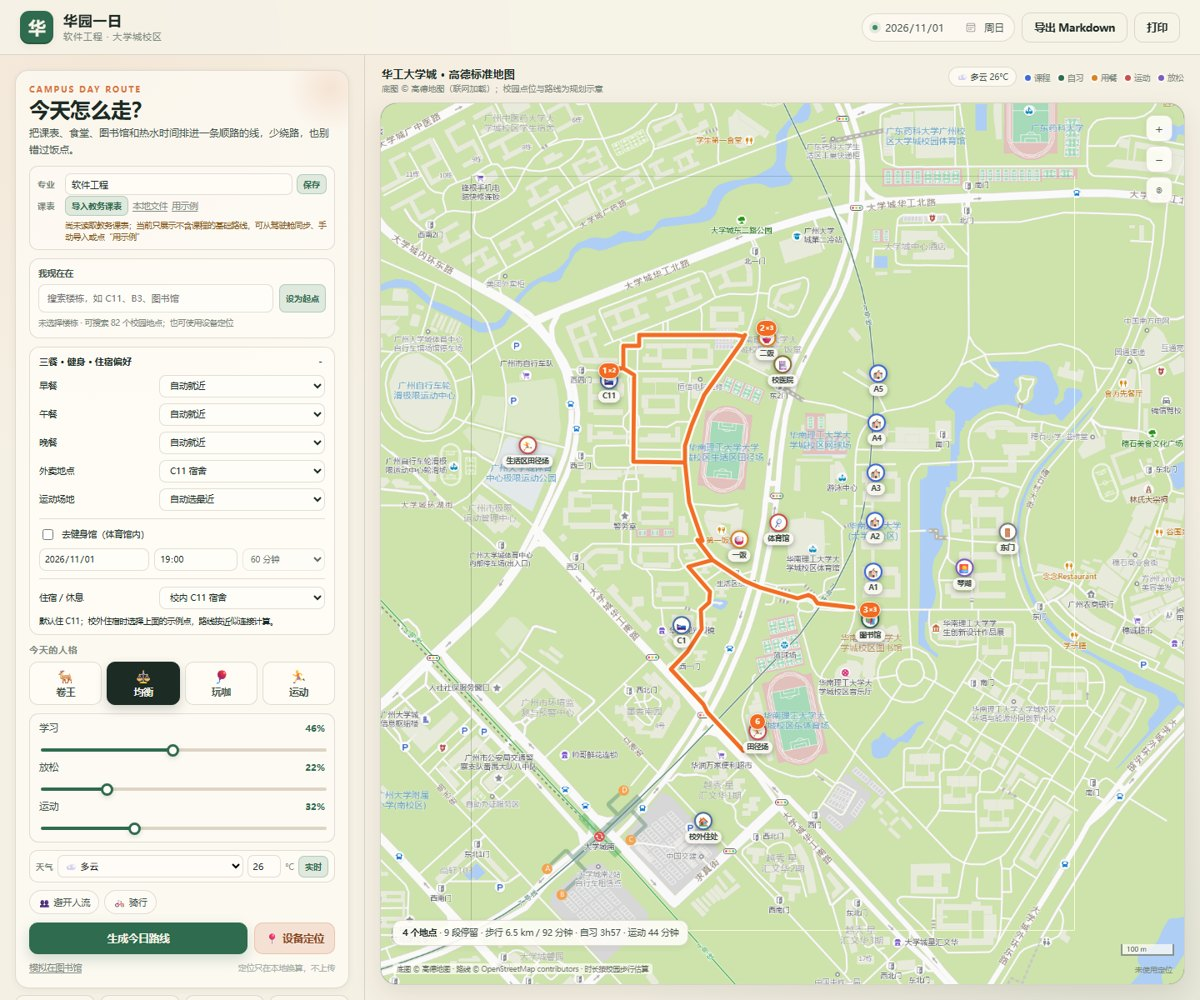
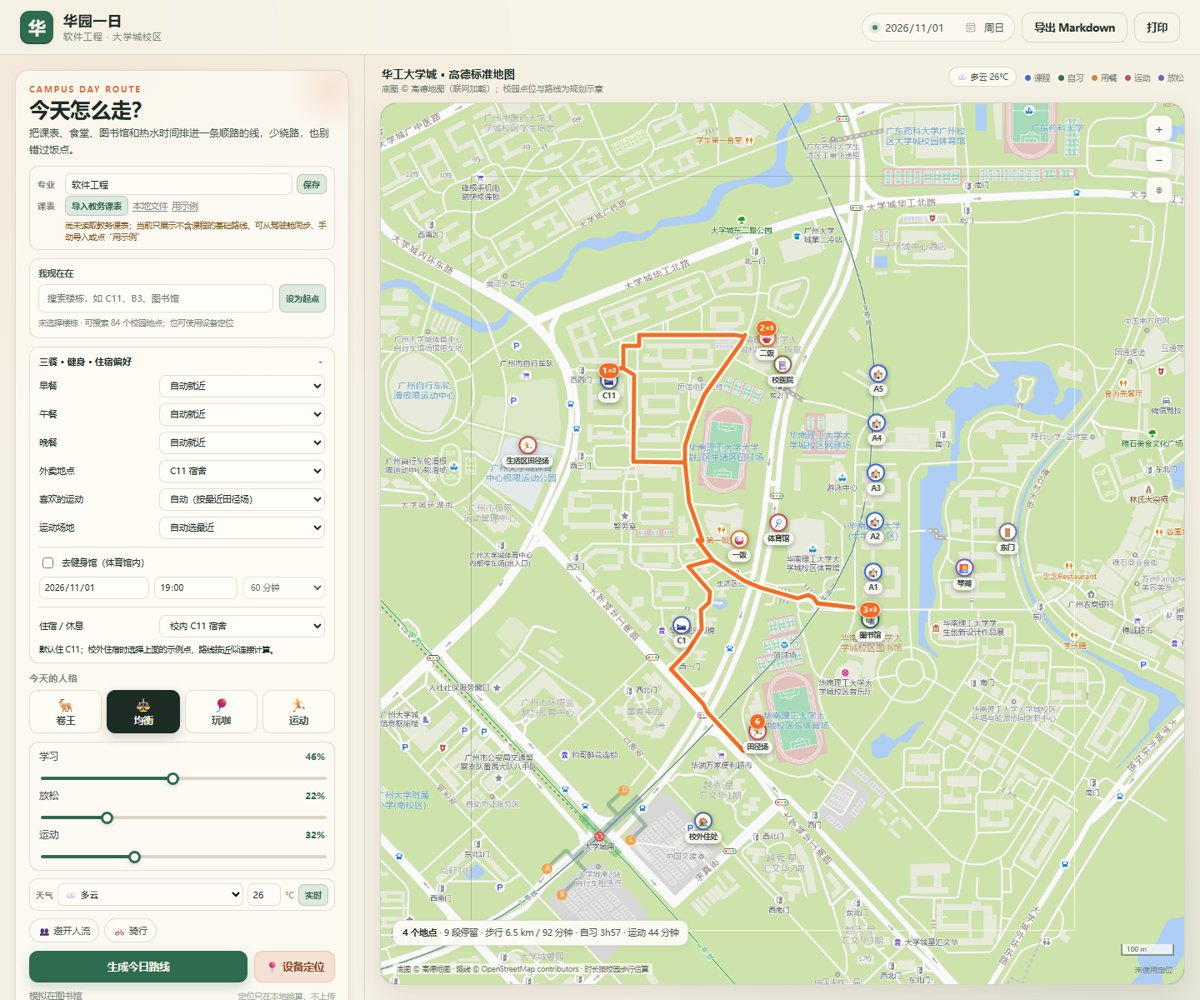
feat: route sports by activity type
Adds running/football/long-jump/pull-up/walk/basketball preferences to the nearest field, while badminton and fitness go to the gym.

Changed region(s): [[0.0, 0.496, 0.2775, 1.0], [0.1542, 0.496, 0.2158, 0.558], [0.2158, 0.558, 0.2467, 0.589]]

diff --git a/skills/huayuan-campus-route/scripts/route-engine.js b/skills/huayuan-campus-route/scripts/route-engine.js
@@ -688,6 +688,18 @@
     const gymEnabled = Boolean(gymPref.enabled) && (!gymPref.date || gymPref.date === parts.iso);
     const gymStart = parseTime(gymPref.start || '18:00');
     const gymMinutes = Math.min(120, Math.max(30, Number(gymPref.minutes) || 60));
+    const sportType = opts.sportType || 'auto';
+    const SPORT_TYPE_LABELS = {
+      run: '跑步',
+      football: '足球',
+      longjump: '跳远',
+      pullup: '引体向上',
+      badminton: '羽毛球',
+      basketball: '篮球',
+      fitness: '健身',
+      walk: '散步',
+    };
+    const sportTypeLabel = SPORT_TYPE_LABELS[sportType] || '';
     if (parts.is_weekend && opts.preferences && opts.preferences.weekend) {
       const weekend = opts.preferences.weekend;
       const weekendWake = parseTime(weekend.wake);
@@ -1040,26 +1052,33 @@
     }
 
     function pickSportVenue(start, end, fromPoiId) {
+      const gymOnly = sportType === 'badminton' || sportType === 'fitness';
+      const fieldType = ['run', 'football', 'longjump', 'pullup', 'basketball', 'walk'].includes(sportType);
       const pref = opts.sportPref && opts.sportPref !== 'auto' ? opts.sportPref : null;
       if (pref && ['field_life', 'field', 'gym'].includes(pref) && venueOpen(pref, start, end)) {
+        const compatible = gymOnly ? pref === 'gym' : fieldType ? pref !== 'gym' : true;
         const outdoorAllowed = !weather.sport_indoor || (weather.is_hot && !weather.is_wet && start >= 19 * 60 + 30);
-        if (pref === 'gym' || outdoorAllowed) return pref;
+        if (compatible && (pref === 'gym' || outdoorAllowed)) return pref;
       }
       let order;
-      if (weather.sport_indoor) {
+      if (gymOnly) {
+        order = ['gym'];
+      } else if (fieldType) {
+        order = ['field_life', 'field', 'gym'];
+      } else if (weather.sport_indoor) {
         // 高温天日落后允许回田径场；其余坏天气只去室内
         order = weather.is_hot && !weather.is_wet && start >= 19 * 60 + 30
           ? ['field_life', 'field', 'gym']
           : ['gym'];
       } else {
-        // 默认运动优先去更近的田径场；健身馆只在用户明确勾选时单独排
         order = ['field_life', 'field', 'gym'];
       }
+      if (pref && order.includes(pref)) order = [pref, ...order.filter((id) => id !== pref)];
       const from = fromPoiId || startPoiId;
       let best = null;
       for (const id of order) {
         if (!venueOpen(id, start, end)) continue;
-        if (!weather.sport_indoor && id === 'gym' && (venueOpen('field_life', start, end) || venueOpen('field', start, end))) {
+        if (!gymOnly && !weather.sport_indoor && id === 'gym' && (venueOpen('field_life', start, end) || venueOpen('field', start, end))) {
           continue;
         }
         const toVenue = pathFor(from, id, { ...travelOpts, at: start });
@@ -1149,7 +1168,7 @@
         return null;
       }
       const weatherNote = weather.is_wet ? '，雨天改室内' : weather.is_hot ? '，高温改室内/避晒' : weather.is_polluted ? '，污染天改室内' : '';
-      const block = pushBlock('sport', venue, windowStart, windowStart + want, `${label}；运动权重 ${Math.round(weights.sport * 100)}%，留 ${want} 分钟${weatherNote}`);
+      const block = pushBlock('sport', venue, windowStart, windowStart + want, `${label}${sportTypeLabel ? ` · ${sportTypeLabel}` : ''}；运动权重 ${Math.round(weights.sport * 100)}%，留 ${want} 分钟${weatherNote}`);
       if (block) budget.sport -= want;
       return block;
     }

diff --git a/skills/huayuan-campus-route/public/app.js b/skills/huayuan-campus-route/public/app.js
@@ -112,6 +112,7 @@
     dormPoiId: 'c11',
     mealPrefs: { breakfast: 'auto', lunch: 'auto', dinner: 'auto', takeoutPlace: 'c11' },
     sportPref: 'auto',
+    sportType: 'auto',
     gym: { enabled: false, date: '', start: '19:00', minutes: 60 },
   };
 
@@ -464,6 +465,7 @@
       dormPoiId: state.dormPoiId,
       mealPrefs: state.mealPrefs,
       sportPref: state.sportPref,
+      sportType: state.sportType,
       gym: state.gym.enabled ? state.gym : undefined,
       weekNumber: state.timetableInfo ? state.timetableInfo.week_number : null,
       major: state.major || undefined,
@@ -1213,6 +1215,11 @@
       saveStorage('huayuan.sportPref', state.sportPref);
       replan(false);
     });
+    $('sportType').addEventListener('change', (e) => {
+      state.sportType = e.target.value || 'auto';
+      saveStorage('huayuan.sportType', state.sportType);
+      replan(false);
+    });
     $('homeSelect').addEventListener('change', (e) => {
       state.dormPoiId = e.target.value === 'offcampus' ? 'offcampus' : 'c11';
       $('prefsHint').textContent =
@@ -1255,6 +1262,7 @@
     $('mealDinner').value = state.mealPrefs.dinner;
     $('takeoutPlace').value = state.mealPrefs.takeoutPlace;
     $('sportPref').value = state.sportPref || 'auto';
+    $('sportType').value = state.sportType || 'auto';
     $('homeSelect').value = state.dormPoiId;
     $('gymEnabled').checked = Boolean(state.gym.enabled);
     $('gymDate').value = state.gym.date || state.date;
@@ -1666,6 +1674,10 @@
     if (savedDorm === 'offcampus' || savedDorm === 'c11') state.dormPoiId = savedDorm;
     const savedSportPref = localStorage.getItem('huayuan.sportPref');
     if (['auto', 'field_life', 'field', 'gym'].includes(savedSportPref)) state.sportPref = savedSportPref;
+    const savedSportType = localStorage.getItem('huayuan.sportType');
+    if (['auto', 'run', 'football', 'longjump', 'pullup', 'badminton', 'basketball', 'fitness', 'walk'].includes(savedSportType)) {
+      state.sportType = savedSportType;
+    }
     const savedGym = JSON.parse(localStorage.getItem('huayuan.gym') || 'null');
     if (savedGym && typeof savedGym === 'object') {
       state.gym = { ...state.gym, ...savedGym };

diff --git a/skills/huayuan-campus-route/public/index.html b/skills/huayuan-campus-route/public/index.html
@@ -125,6 +125,20 @@
                 </select>
               </div>
               <div class="pref-row">
+                <span>喜欢的运动</span>
+                <select id="sportType" aria-label="喜欢的运动">
+                  <option value="auto">自动（按最近田径场）</option>
+                  <option value="run">跑步</option>
+                  <option value="football">足球</option>
+                  <option value="longjump">跳远</option>
+                  <option value="pullup">引体向上</option>
+                  <option value="badminton">羽毛球（体育馆）</option>
+                  <option value="basketball">篮球（生活区球场）</option>
+                  <option value="fitness">健身（体育馆）</option>
+                  <option value="walk">散步</option>
+                </select>
+              </div>
+              <div class="pref-row">
                 <span>运动场地</span>
                 <select id="sportPref" aria-label="运动场地偏好">
                   <option value="auto">自动选最近</option>

diff --git a/skills/huayuan-campus-route/test/check-route.js b/skills/huayuan-campus-route/test/check-route.js
@@ -431,6 +431,27 @@ check('校外住宿会改变起床、洗漱和睡觉地点', () => {
   assert.strictEqual(plan.blocks.find((b) => b.type === 'sleep').poi_id, 'offcampus');
 });
 
+check('羽毛球偏好会安排到体育馆', () => {
+  const plan = R.planDay({
+    date: '2026-11-02',
+    preset: 'sport',
+    sportType: 'badminton',
+    timetable: { campus: { key: 'university_town', label: '大学城校区' }, courses: [] },
+  });
+  assert.strictEqual(plan.blocks.find((b) => b.type === 'sport').poi_id, 'gym');
+});
+
+check('跑步偏好会安排到田径场而不是体育馆', () => {
+  const plan = R.planDay({
+    date: '2026-11-02',
+    preset: 'sport',
+    sportType: 'run',
+    timetable: { campus: { key: 'university_town', label: '大学城校区' }, courses: [] },
+  });
+  const sport = plan.blocks.find((b) => b.type === 'sport');
+  assert.ok(['field', 'field_life'].includes(sport.poi_id));
+});
+
 check('Markdown 导出包含日期、时间轴、热水与依据', () => {
   const md = R.buildMarkdown(base);
   assert.ok(md.includes('2026-10-29'));

diff --git a/skills/huayuan-campus-route/SKILL.md b/skills/huayuan-campus-route/SKILL.md
@@ -173,4 +173,4 @@ skills\huayuan-campus-route\public\index.html
 node skills\huayuan-campus-route\test\check-route.js
 ```
 
-44 项断言：数据连通、教务课表导入（大学城/五山/坏 JSON/空课程/缺校区）、专业元数据与偏好、考试按专业筛选与 T-14/T-7/T-3/T-1 拆分、手动待办去重与自习块标注、任务状态、课程保留、时间不重叠、热水/门禁、四类画像差异、周末、GPS 校内外、WGS→GCJ、雨天/骑行、雨天改体育馆、大雨/高温/污染室内化、天气写进 Markdown、开放时间、咖啡厅合并、五山拒绝、未知教室、体育场映射、17:20 下课晚餐通勤、Markdown 导出、CLI 自动发现真实课表、页面默认日期、运动场地偏好、三餐偏好与外卖、健身馆固定块、校外住宿。
+46 项断言：数据连通、教务课表导入（大学城/五山/坏 JSON/空课程/缺校区）、专业元数据与偏好、考试按专业筛选与 T-14/T-7/T-3/T-1 拆分、手动待办去重与自习块标注、任务状态、课程保留、时间不重叠、热水/门禁、四类画像差异、周末、GPS 校内外、WGS→GCJ、雨天/骑行、雨天改体育馆、大雨/高温/污染室内化、天气写进 Markdown、开放时间、咖啡厅合并、五山拒绝、未知教室、体育场映射、17:20 下课晚餐通勤、Markdown 导出、CLI 自动发现真实课表、页面默认日期、运动场地偏好、三餐偏好与外卖、健身馆固定块、校外住宿、运动项目分流（羽毛球/健身去体育馆，跑步等去田径场）。

diff --git a/skills/huayuan-campus-route/USAGE.md b/skills/huayuan-campus-route/USAGE.md
@@ -1,6 +1,6 @@
 # 华园一日路线 · 使用说明
 
-> 适用版本：0.14.0（大学城校区 · 专业 / 课表 / 考试待办 / 天气版）
+> 适用版本：0.14.1（大学城校区 · 专业 / 课表 / 考试待办 / 天气版）
 > 目录：`skills/huayuan-campus-route/`
 
 ## 一、最快用法：打开页面
@@ -33,6 +33,7 @@ skills/huayuan-campus-route/public/index.html
 ### 三餐 / 健身 / 住宿偏好
 
 - **三餐**：默认“自动就近”；选一饭/二饭会按你的偏好去对应饭堂，选外卖后按“外卖地点”安排。外卖地点只是用餐地点，不会真的下单选餐。
+- **喜欢的运动**：跑步、足球、跳远、引体向上、散步、篮球优先去最近的田径场/生活区球场；羽毛球、健身安排到体育馆。运动项目优先决定场地类型，下面的“运动场地”可用于进一步指定。
 - **运动场地**：默认按当前位置、下一餐和住处综合选最近的运动场；也可强制选生活区田径场、南侧田径场或体育馆。坏天气下露天场地会被安全策略覆盖，不会硬排。
 - **健身馆**：体育馆内的健身馆是可选固定块；填好日期、开始时间和时长后，只有在计划当天才生效。与课程/三餐冲突时会给提醒，不会硬塞。
 - **住宿 / 休息**：默认 C11；选“校外住处（大学城南）”后，起床、洗漱、睡觉和回程都以该示例点计算，到校路线是近似连接，实际住处不同请按现场调整。

diff --git a/README.md b/README.md
@@ -39,6 +39,8 @@
 >
 > 版本 0.13.6 修复**楼栋下拉栏随页面滚动错位**：页面或侧栏滚动时，下拉列表会实时跟随输入框重新定位；输入框滚出窗口后自动收起。
 >
+> 版本 0.14.1 新增**按运动项目分流**：跑步、足球、跳远、引体向上、散步、篮球优先去最近的生活区/南侧田径场（篮球也可用生活区球场），羽毛球、健身去体育馆；可和“运动场地”手选叠加。生活区田径场为约值坐标，可在标准地图上核对。
+>
 > 版本 0.14.0 新增**路线偏好与更短路线**：运动场地按当前位置、下一餐和住处综合选最近的田径场，并新增生活区田径场；可指定三餐（一饭/二饭/外卖地点）和运动场地；可勾选健身馆的日期/时间/时长；支持校外住宿示例点，起床/洗漱/睡觉随之改变；偏好面板折叠在“三餐 · 健身 · 住宿偏好”里。
 >
 > 版本 0.13.9 将步行路线**改为沿道路绘制**：页面按停留点调用 OSM foot routing，做 GCJ-02 ↔ WGS-84 转换后叠加到高德标准地图；请求失败或离线时回退校园步行图直线。路线只影响显示，计划时长仍按校园步行估算。
